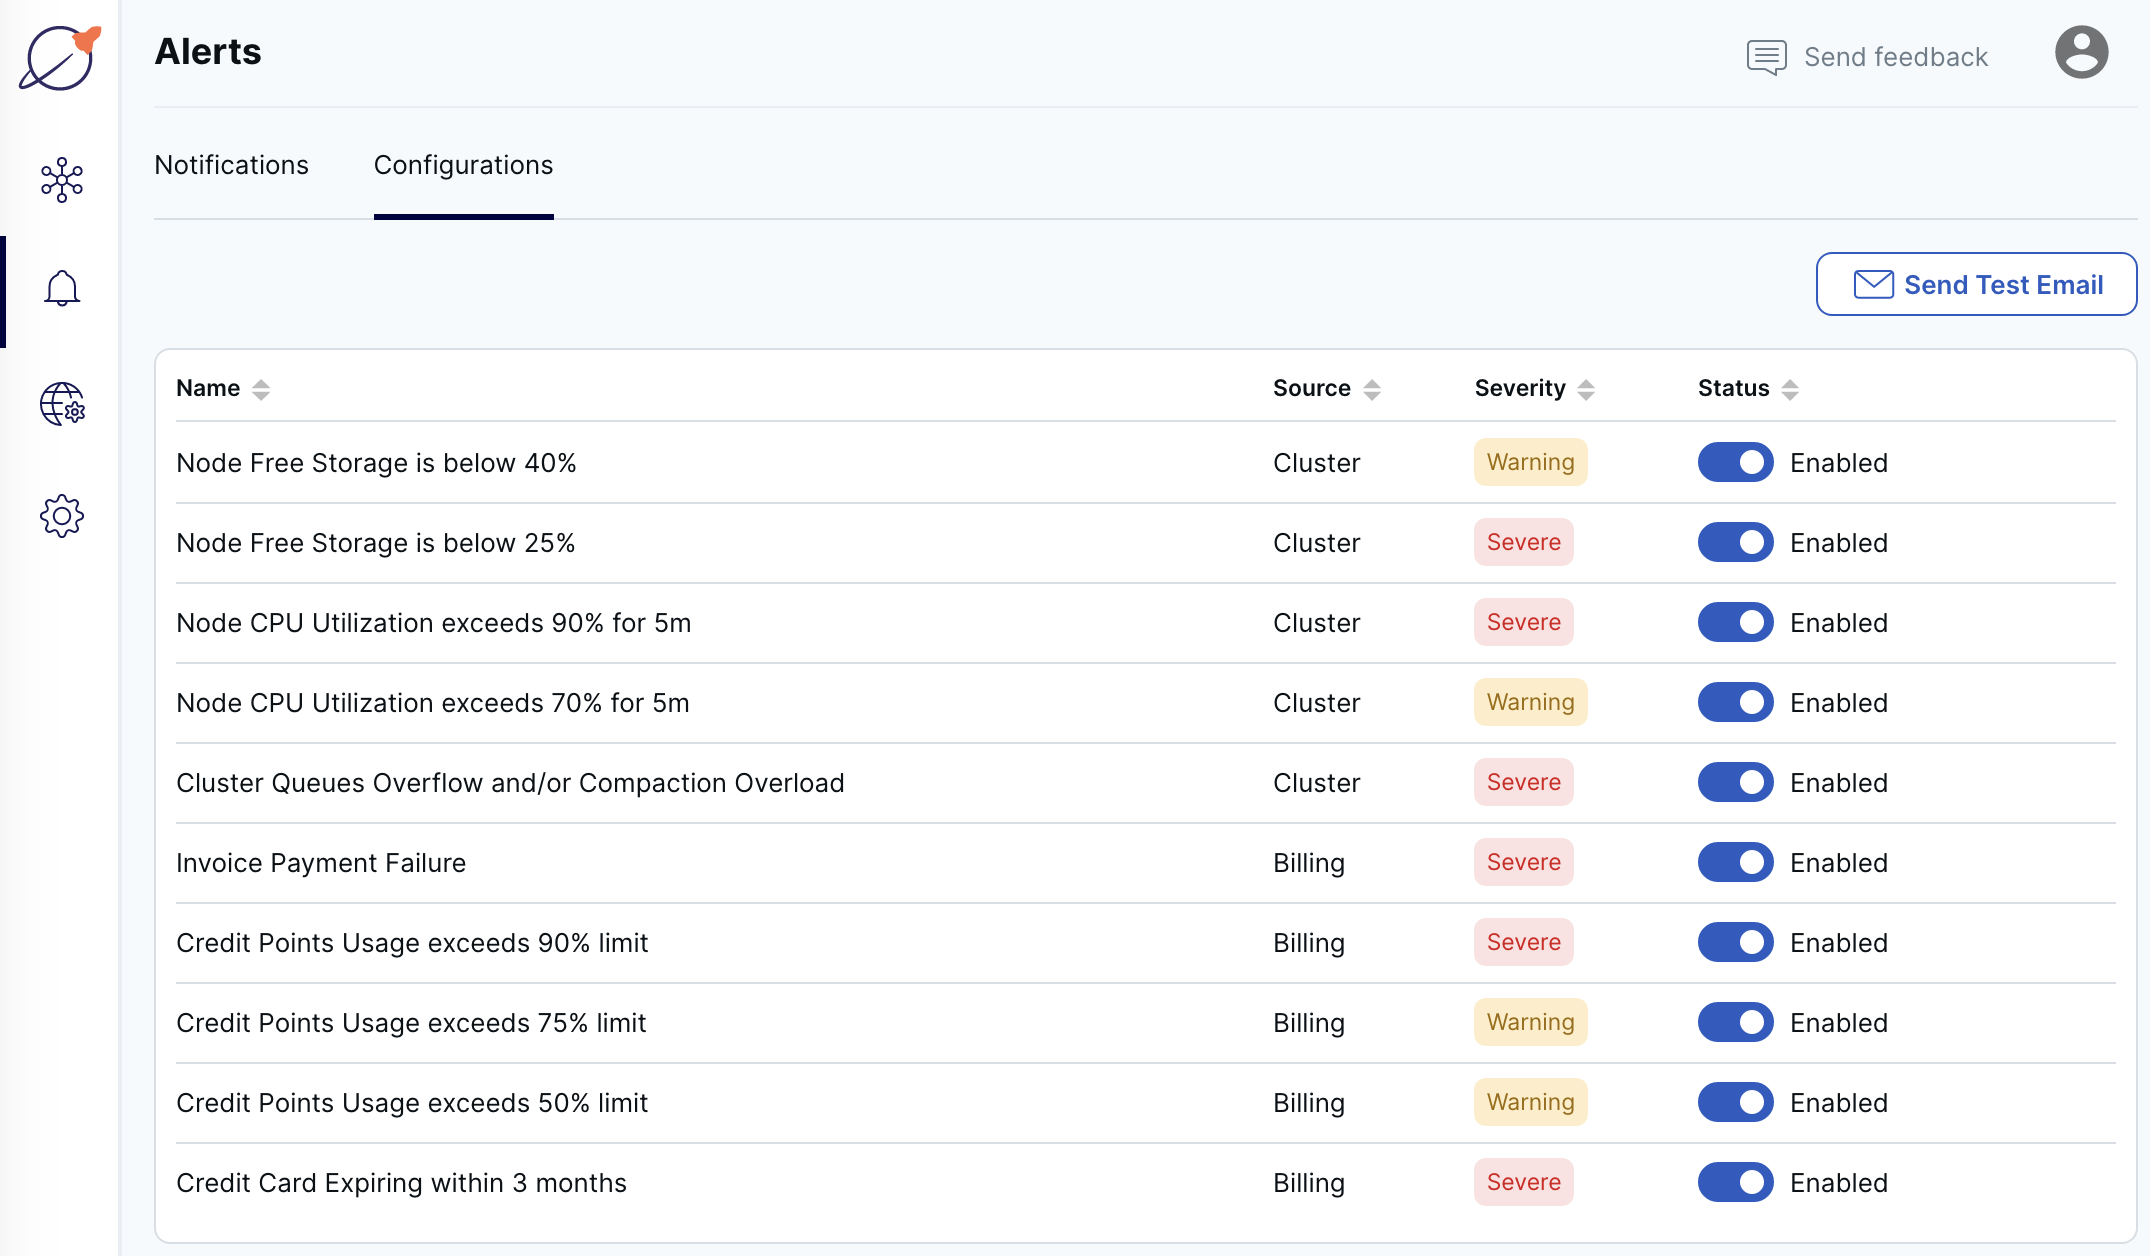
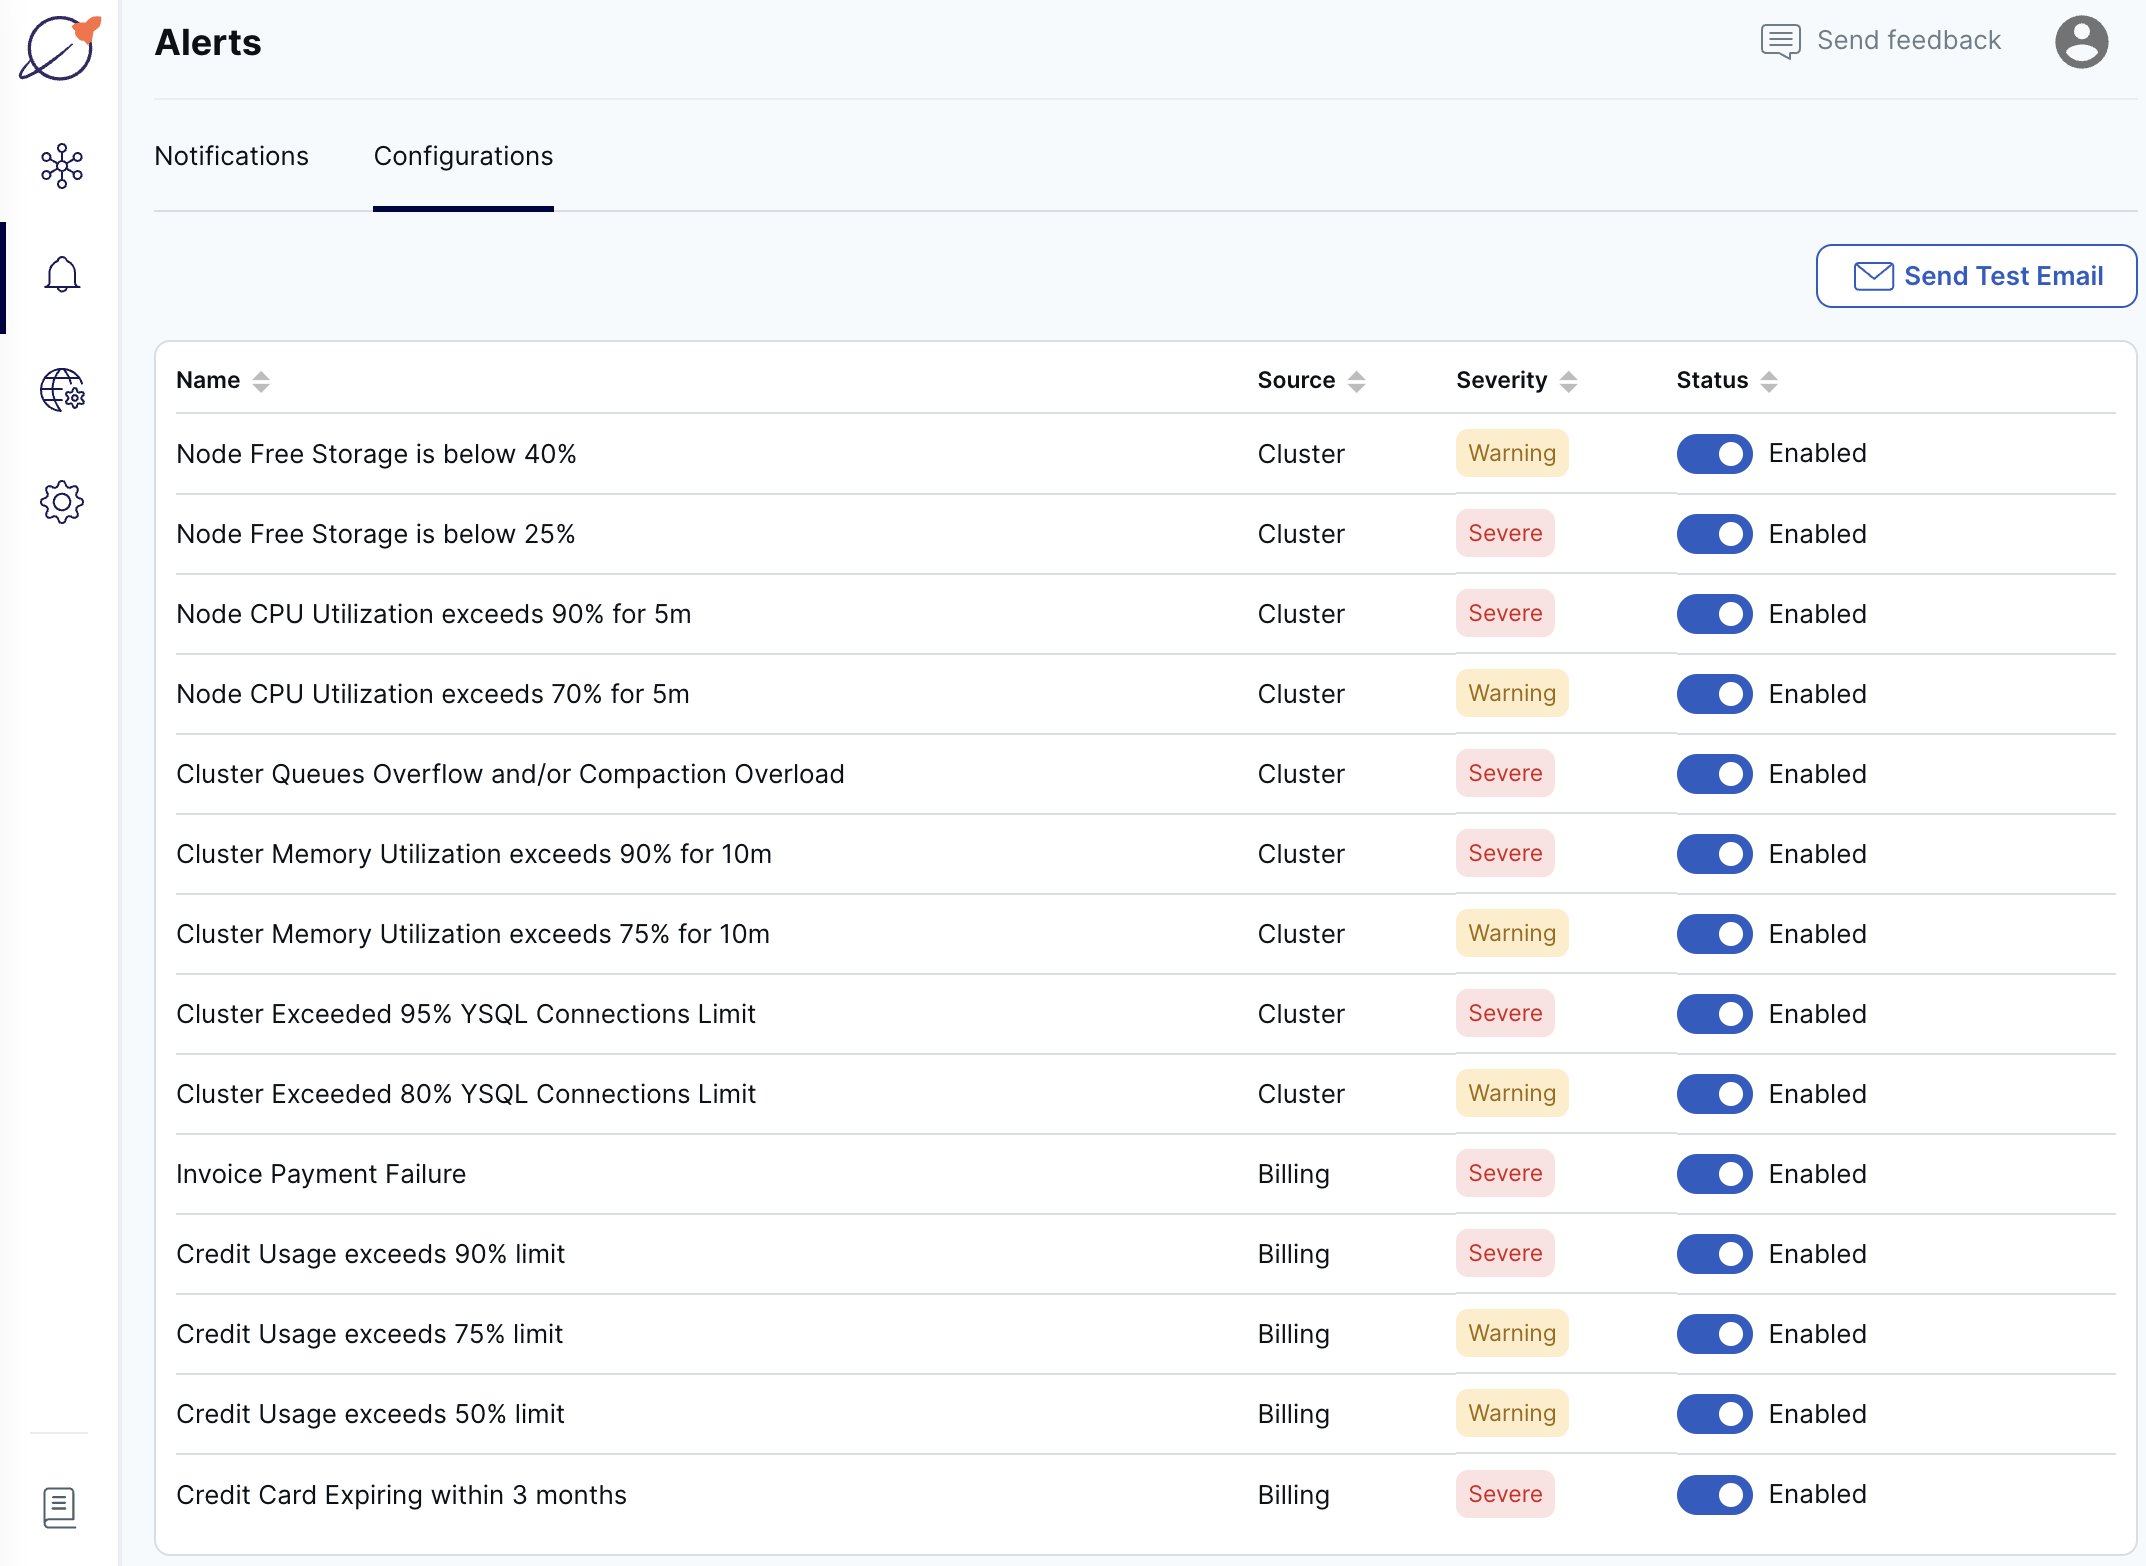
Memory and connection alerts

diff --git a/docs/content/preview/yugabyte-cloud/cloud-monitor/cloud-alerts.md b/docs/content/preview/yugabyte-cloud/cloud-monitor/cloud-alerts.md
@@ -21,13 +21,9 @@ To monitor clusters in real time, use the performance metrics on the cluster [Ov
 ## Features
 
 - YugabyteDB Managed sends email notifications to all account members.
-
 - When an alert triggers, YugabyteDB Managed sends an email notification once, regardless of how long the condition lasts.
-
 - When an alert triggers, a notification displays on the **Notifications** page. After the alert condition resolves, the notification dismisses automatically.
-
 - Alerts are enabled for all clusters in your account.
-
 - Alerts can have two severity levels: Warning or Severe.
 
 ## Configure alerts
@@ -66,6 +62,8 @@ When you receive a cluster alert, the first step is to review the chart for the 
 | Node Free Storage | Disk Usage |
 | Cluster Queues Overflow | RPC Queue Size |
 | Compaction Overload | Compaction |
+| Memory Use | Memory Usage |
+| YSQL Connections | YSQL Operations/Sec |
 
 You can view the metrics on the cluster **Performance** tab. Refer to [Performance metrics](../overview/#performance-metrics).
 
@@ -108,7 +106,6 @@ If CPU use is continuously higher than 80%, your workload may also exceed the ca
 YugabyteDB Managed sends the following database overload alert:
 
 - Cluster queues overflow and/or compaction overload.
-<!-- Cluster exceeds 200 simultaneous YSQL connections.-->
 
 This alert triggers if any one of the following conditions occurs:
 
@@ -127,14 +124,42 @@ If your cluster generates this alert, you may need to rate limit your queries. L
 
 If your cluster generates this alert but isn't under a very large workload, contact {{% support-cloud %}}.
 
+#### Fix memory alerts
+
+YugabyteDB Managed sends a notification when memory use in the cluster exceeds the threshold, as follows:
+
+- Memory use exceeds 75% on average for at least 10 minutes (Warning).
+- Memory use exceeds 90% on average for at least 10 minutes (Severe).
+
+If your cluster experiences frequent spikes in memory use, consider optimizing your workload.
+
+Unoptimized queries can lead to memory alerts. Use the [Slow Queries](../cloud-queries-slow/) and [Live Queries](../cloud-queries-live/) views to identify potentially problematic queries, then use the EXPLAIN statement to see the query execution plan and identify optimizations. Consider adding one or more indexes to improve query performance. For more information, refer to [Analyzing Queries with EXPLAIN](../../../explore/query-1-performance/explain-analyze/).
+
+High memory use could also indicate a problem and may require debugging by {{% support-cloud %}}.
+
+If memory use is continuously higher than 80%, your workload may also exceed the capacity of your cluster. Consider scaling your cluster by adding vCPUs. Refer to [Scale and configure clusters](../../cloud-clusters/configure-clusters/).
+
+#### Fix YSQL connection alerts
+
+YugabyteDB Managed sends a notification when the number of YSQL connections on any node in the cluster exceeds the threshold, as follows:
+
+- YSQL connections exceeds 80% of the limit (Warning).
+- YSQL connections exceeds 95% of the limit (Severe).
+
+If your cluster experiences frequent spikes in connections, consider optimizing your workload.
+
+Check your application's connection code. If connections are opened but never closed, your application will eventually exceed the connection limit. You may need to implement some form of connection pooling.
+
+If the number of connections is continuously higher than 80%, your workload may also exceed the capacity of your cluster. Consider scaling your cluster by adding vCPUs. Refer to [Scale and configure clusters](../../cloud-clusters/configure-clusters/).
+
 ### Billing alerts
 
 Billing alerts trigger for the following events:
 
 | Alert | Response |
 | :--- | :--- |
-| Credit card expiring within 3 months | Add a new credit card. |
 | Invoice payment failure | Check with your card issuer to ensure that your card is still valid and has not exceeded its limit. Alternatively, you can add another credit card to your billing profile. |
-| Credit point usage exceeds the 50%, 75%, and 90% limit | Add a credit card to your billing profile, or contact {{% support-cloud %}}. |
+| Credit usage exceeds the 50%, 75%, and 90% limit | Add a credit card to your billing profile, or contact {{% support-cloud %}}. |
+| Credit card expiring within 3 months | Add a new credit card. |
 
 For information on adding credit cards and managing your billing profile, refer to [Manage your billing profile and payment method](../../cloud-admin/cloud-billing-profile/).
